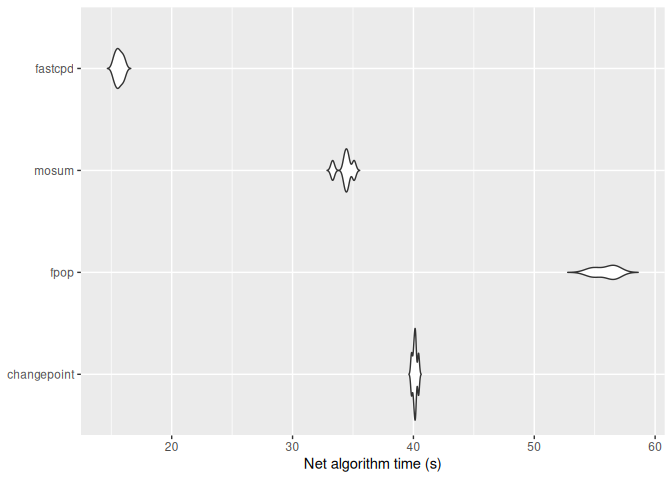
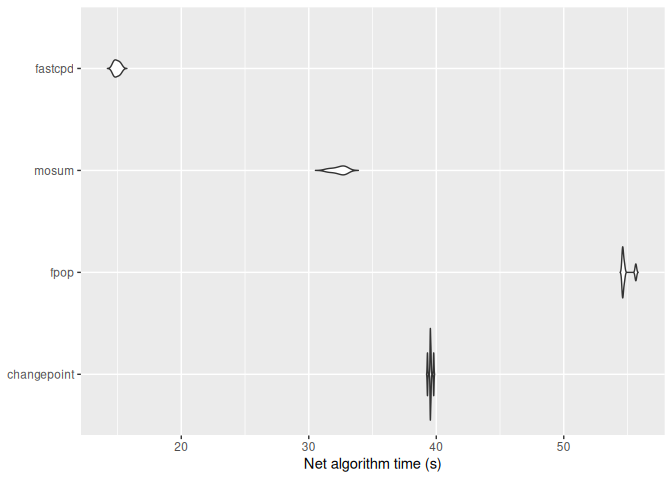
Set benchmark code in readme as echo false.

diff --git a/README.md b/README.md
@@ -114,63 +114,16 @@ run_isolated <- function(expr) {
 }
 print(run_isolated(fastcpd::fastcpd.mean(mean_data, r.progress = FALSE, cp_only = TRUE, variance_estimation = 1)))
 #>    user  system elapsed 
-#>   8.396   6.745  14.873
+#>   8.593   6.494  14.851
 print(run_isolated(mosum::mosum(c(mean_data), G = 40)))
 #>    user  system elapsed 
-#>   8.956   7.075  16.227
+#>   9.077   6.882  16.029
 print(run_isolated(fpop::Fpop(mean_data, 2 * log(n))))
 #>    user  system elapsed 
-#>  44.747   2.931  47.885
+#>  44.990   3.088  48.226
 print(run_isolated(changepoint::cpt.mean(mean_data, method = "PELT")))
 #>    user  system elapsed 
-#>  31.544   6.611  38.199
-```
-
-``` r
-benchmark <- function(..., times = 100L) {
-  calls <- as.list(match.call(expand.dots = FALSE)$`...`)
-  nms <- names(calls); envir <- parent.frame()
-  do.call(rbind, lapply(seq_along(calls), function(i)
-    data.frame(expr = factor(nms[i], levels = nms),
-               elapsed_s = replicate(times, system.time(eval(calls[[i]], envir))["elapsed"]))))
-}
-bm <- benchmark(
-  baseline = callr::r(function(n) {
-    set.seed(1)
-    c(rnorm(n / 2, 0, 1), rnorm(n / 2, 50, 1))
-  }, args = list(n = n)),
-  changepoint = callr::r(function(n) {
-    set.seed(1)
-    mean_data <- c(rnorm(n / 2, 0, 1), rnorm(n / 2, 50, 1))
-    changepoint::cpt.mean(mean_data, method = "PELT")
-  }, args = list(n = n)),
-  fpop = callr::r(function(n) {
-    set.seed(1)
-    mean_data <- c(rnorm(n / 2, 0, 1), rnorm(n / 2, 50, 1))
-    fpop::Fpop(mean_data, 2 * log(n))
-  }, args = list(n = n)),
-  mosum = callr::r(function(n) {
-    set.seed(1)
-    mean_data <- c(rnorm(n / 2, 0, 1), rnorm(n / 2, 50, 1))
-    mosum::mosum(c(mean_data), G = 40)
-  }, args = list(n = n)),
-  fastcpd = callr::r(function(n) {
-    set.seed(1)
-    mean_data <- c(rnorm(n / 2, 0, 1), rnorm(n / 2, 50, 1))
-    fastcpd::fastcpd.mean(mean_data, r.progress = FALSE, cp_only = TRUE, variance_estimation = 1)
-  }, args = list(n = n)),
-  times = 5L
-)
-baseline_overhead <- median(bm$elapsed_s[bm$expr == "baseline"])
-bm_net <- bm[bm$expr != "baseline", ]
-bm_net$elapsed_s <- bm_net$elapsed_s - baseline_overhead
-bm_net$expr <- droplevels(bm_net$expr)
-if (requireNamespace("ggplot2", quietly = TRUE)) {
-  print(ggplot2::ggplot(bm_net, ggplot2::aes(x = expr, y = elapsed_s)) +
-    ggplot2::geom_violin(trim = FALSE) +
-    ggplot2::labs(x = NULL, y = "Net algorithm time (s)") +
-    ggplot2::coord_flip())
-}
+#>  31.516   6.531  38.159
 ```
 
 ![](man/figures/README-time-comparison-fastbench-1.png)<!-- -->